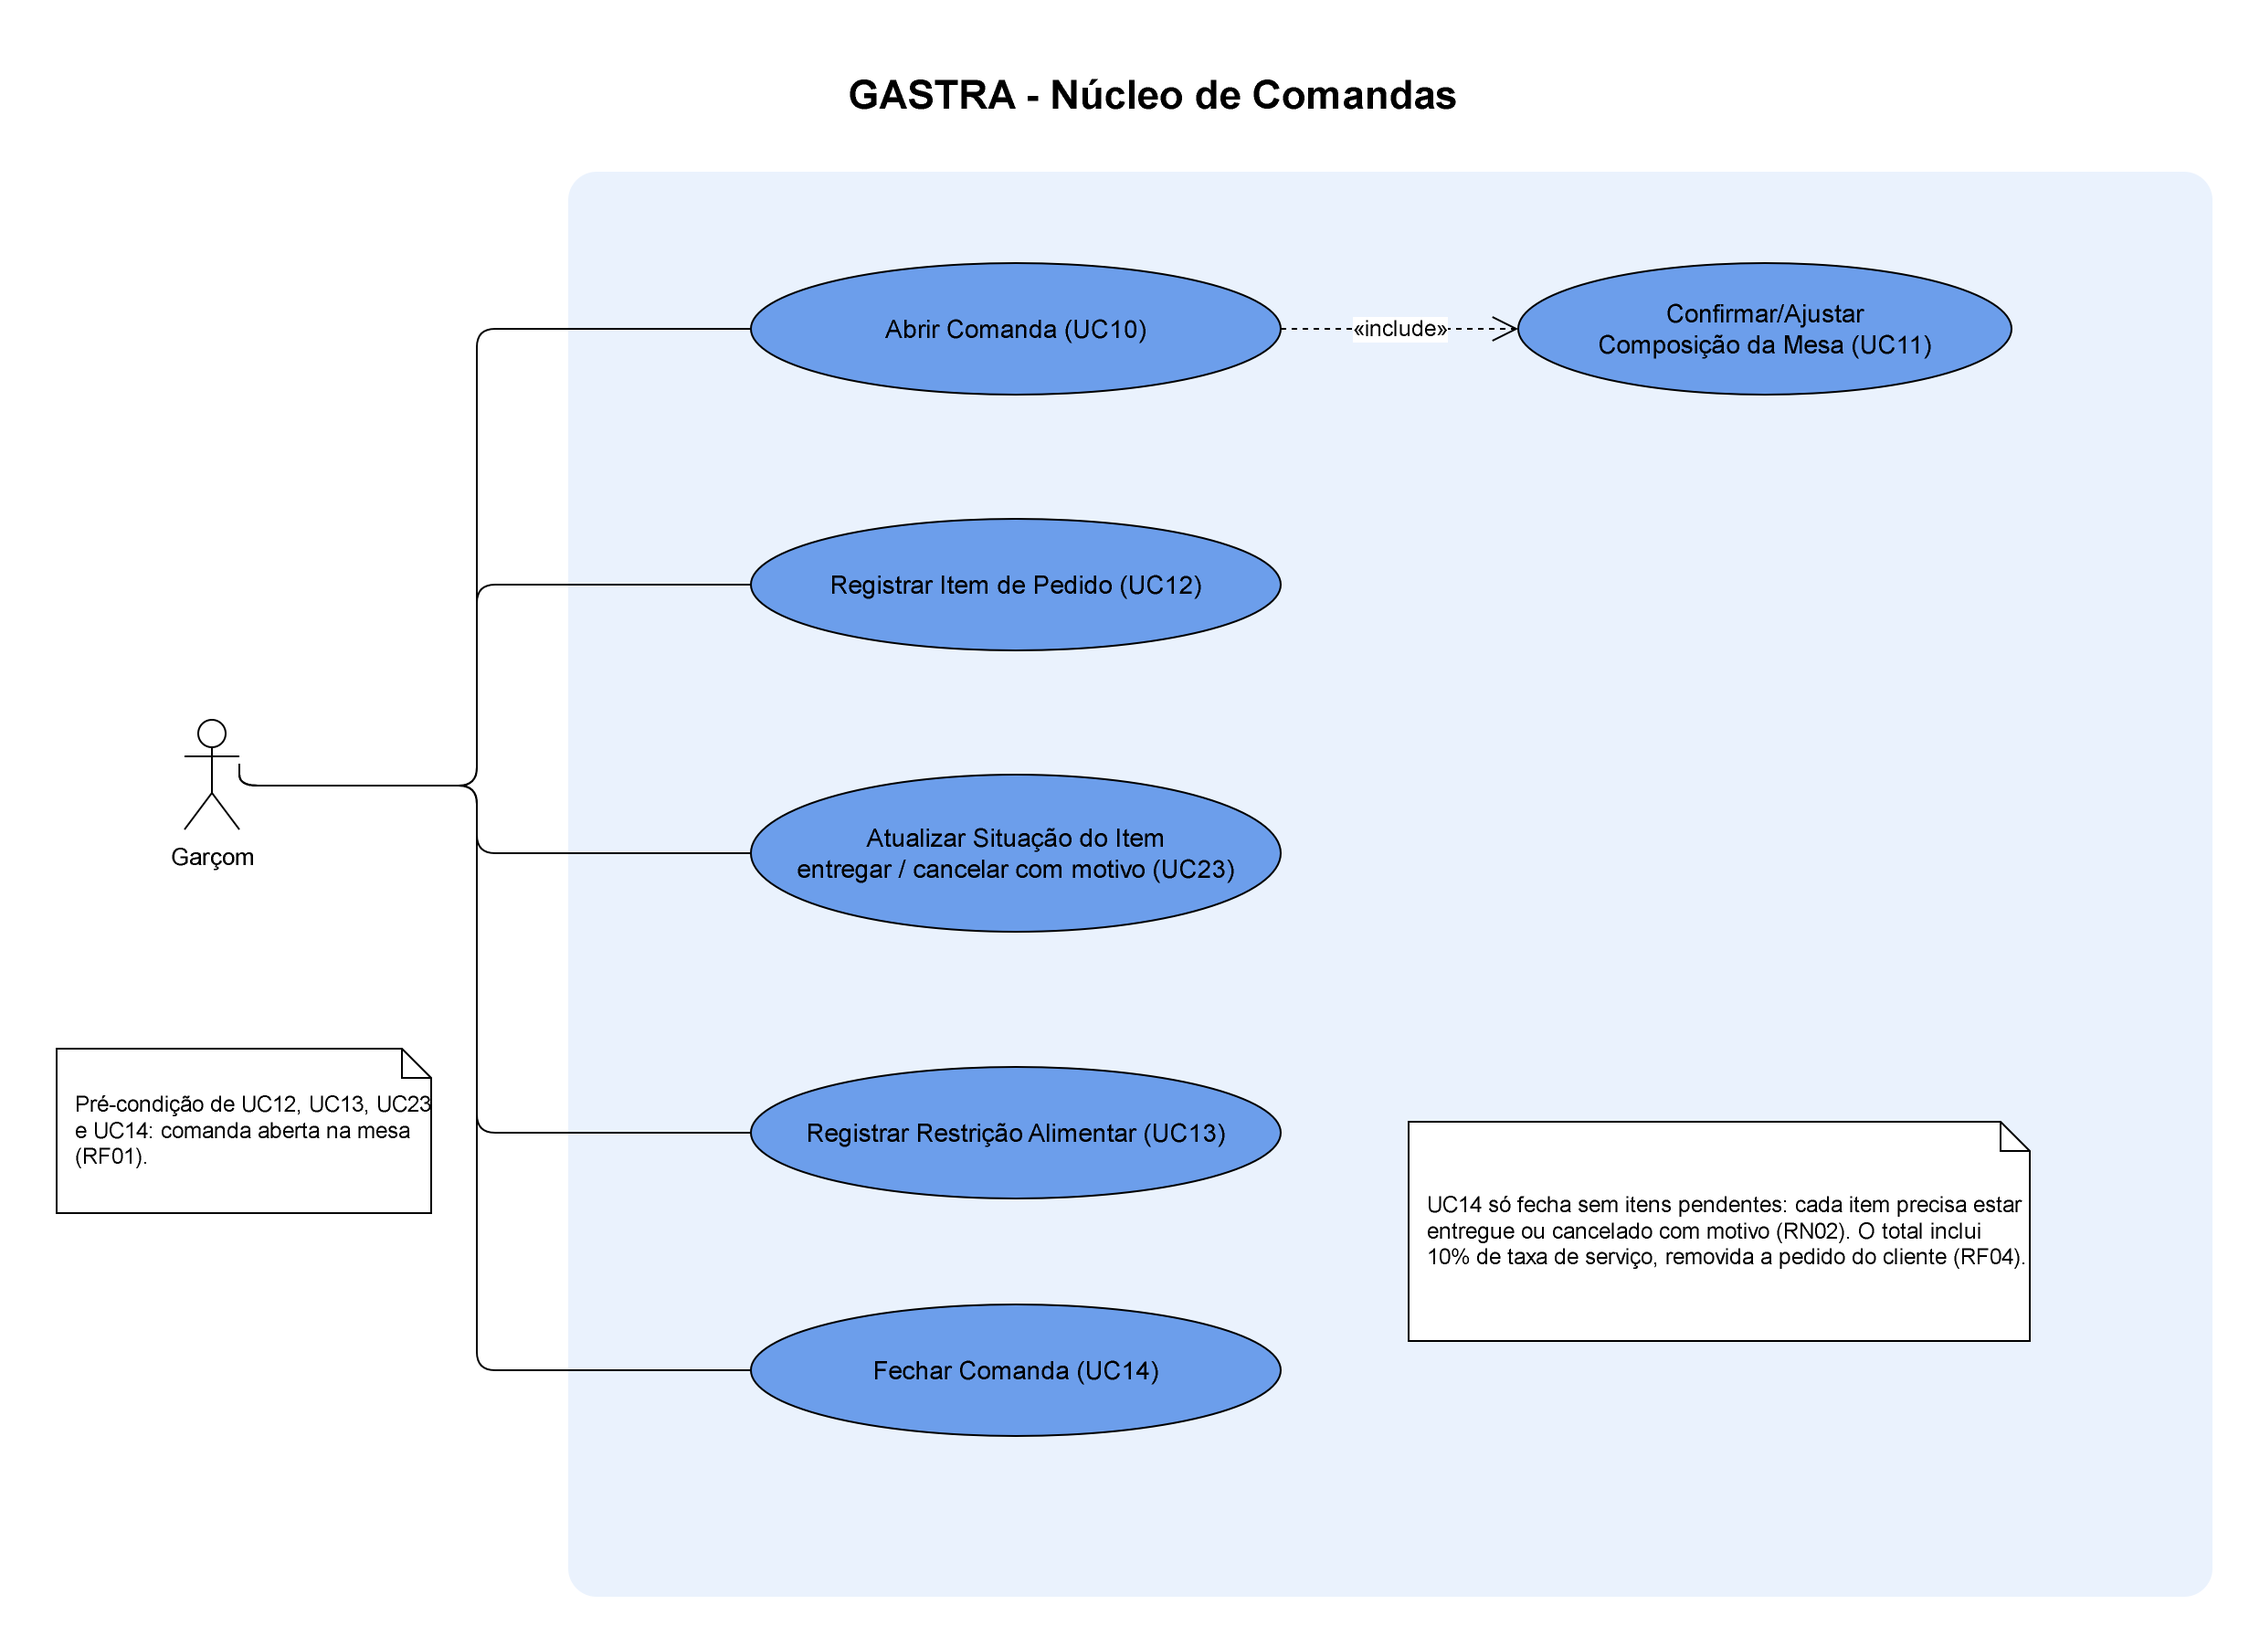
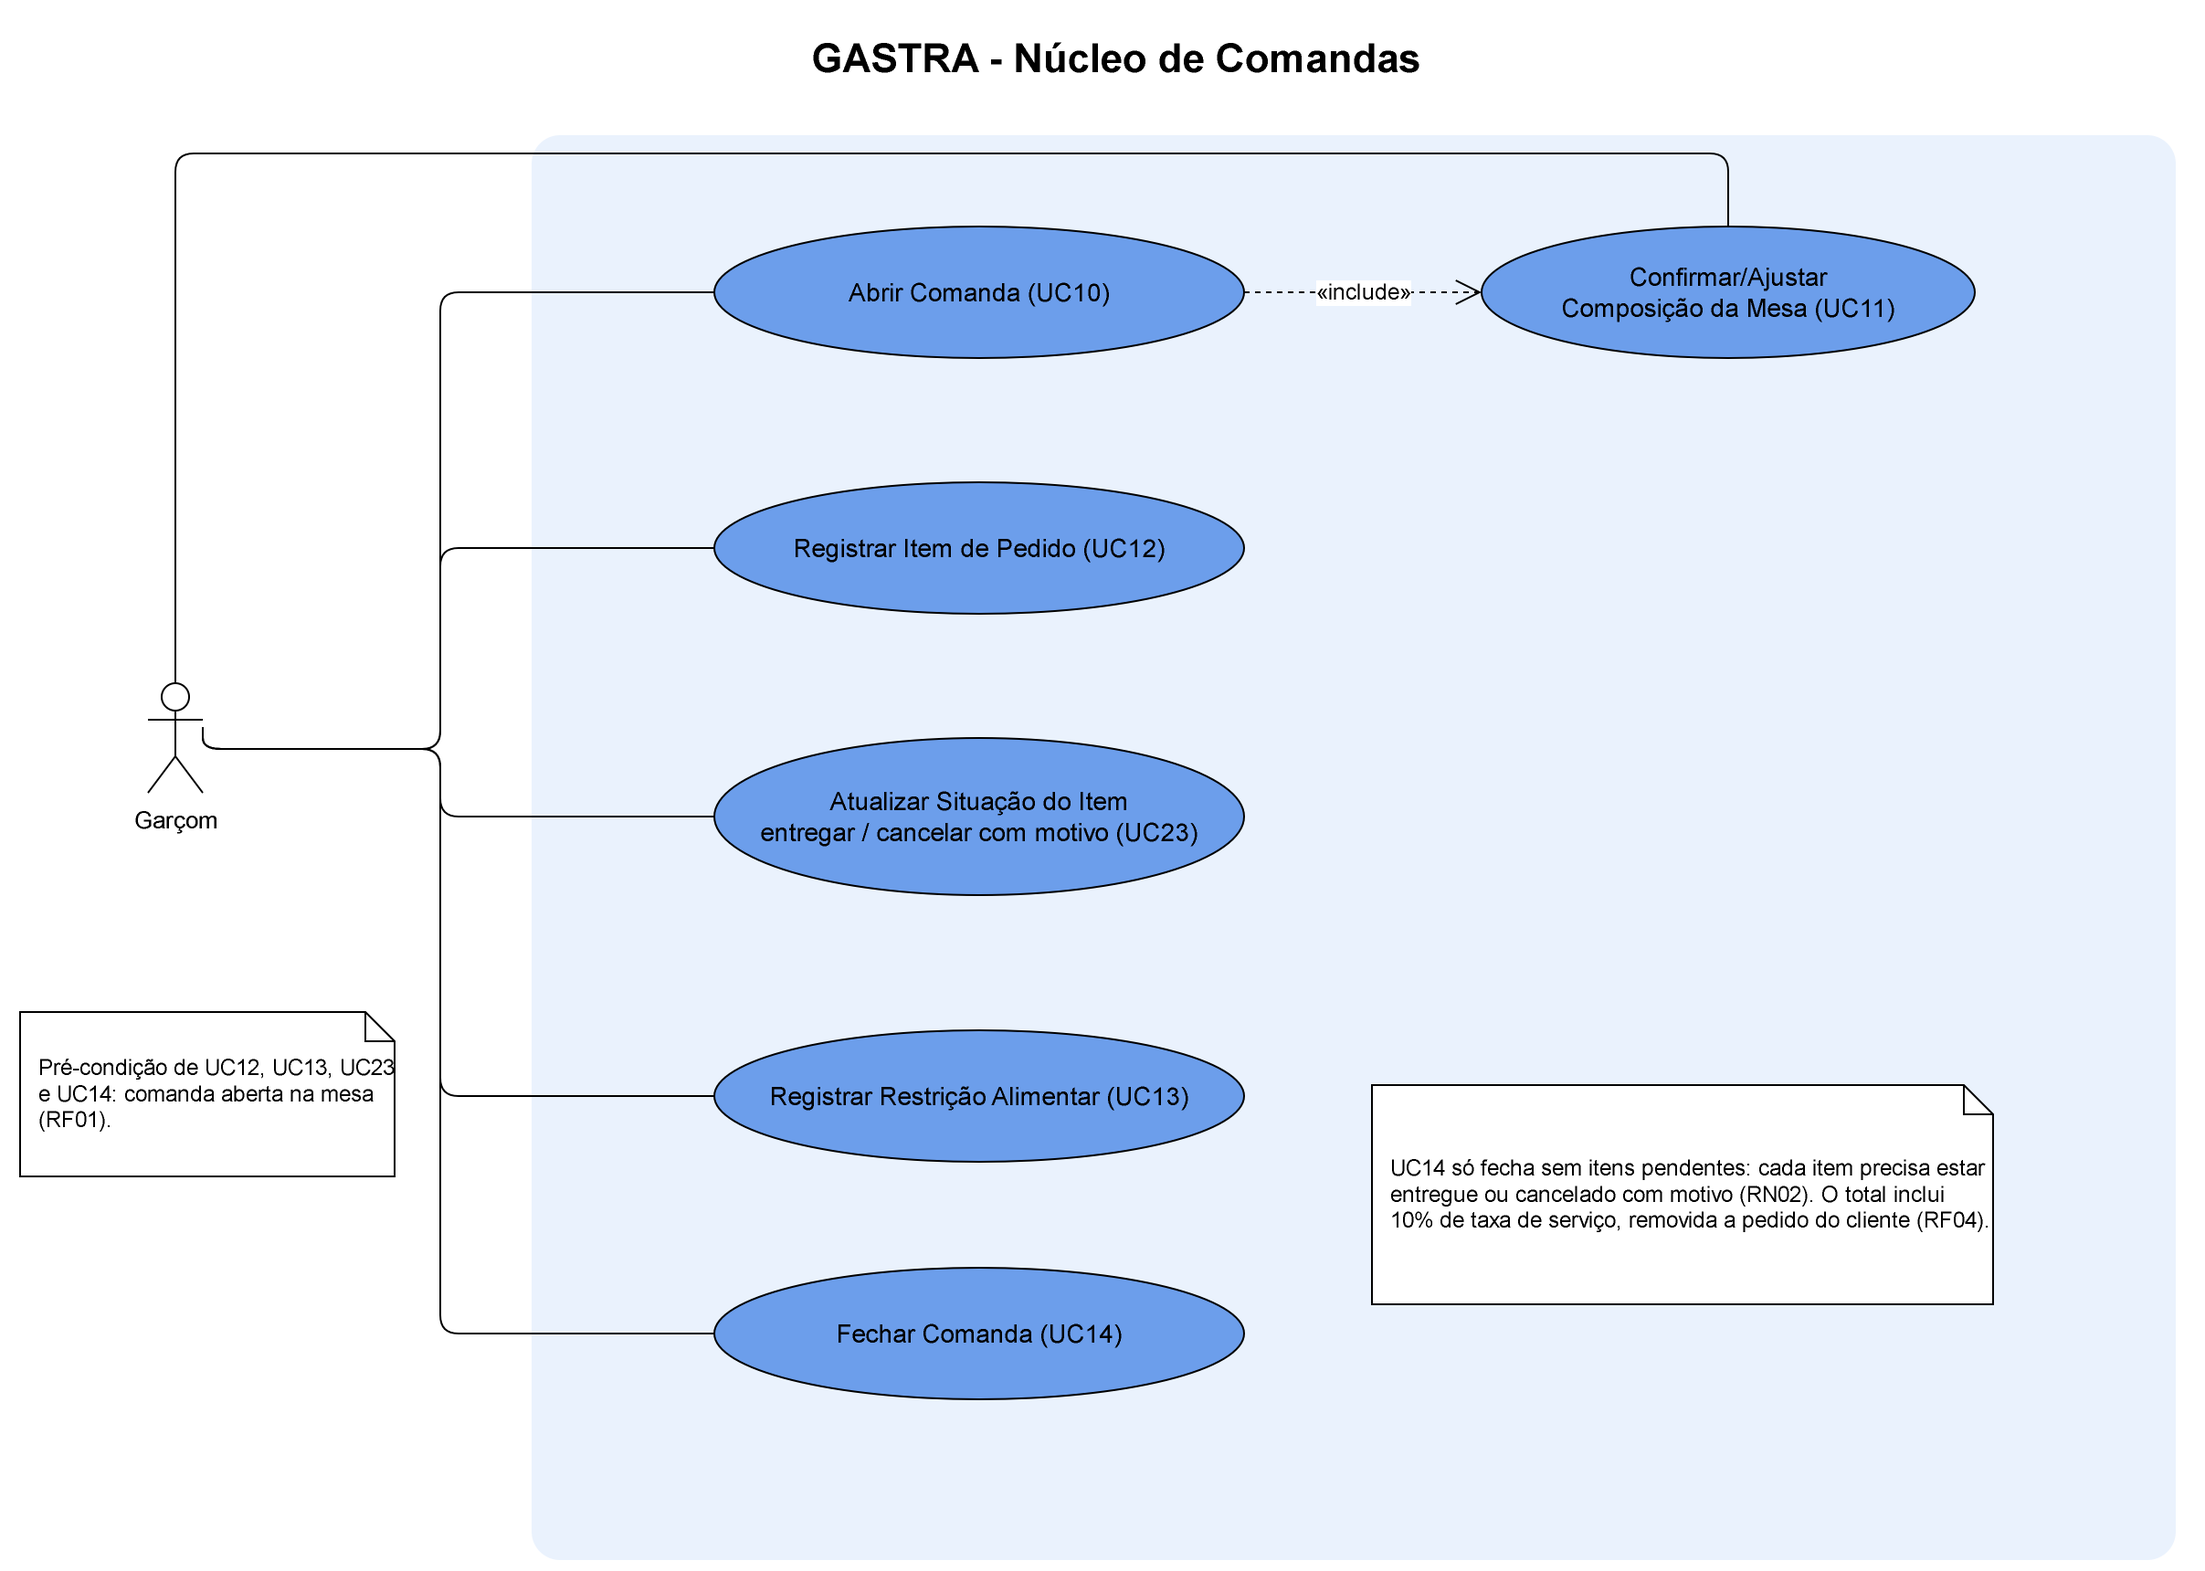
docs(modelagem): Garçom inicia a UC11 e motivo da reprovação do RF12 na matriz
Refs #191 #197

diff --git a/docs/modelagem/GASTRA_Revisao_Modelagem.md b/docs/modelagem/GASTRA_Revisao_Modelagem.md
@@ -159,7 +159,7 @@ Corrigido pela regra 1: a **UC25 — Avaliar o Atendimento** (ator: Cliente) ent
 de uso e no diagrama do Cliente, com a nota das restrições da RN08. A **UC04** também foi ampliada junto
 com o RF18, para continuar descrevendo a mesma coisa que ele.
 
-### 4.8 Um `<<include>>` que merece segunda opinião (#191)
+### 4.8 A UC11 também é iniciada pelo Garçom (#191)
 
 No diagrama do núcleo de comandas, a UC11 (confirmar/ajustar composição da mesa) aparece **só** como
 `<<include>>` da UC10 (abrir comanda), sem associação com o Garçom.
@@ -169,8 +169,10 @@ também permite **ajustar a composição depois**, com a comanda já aberta (`PA
 usado na tela da comanda). Nesse caminho a UC11 é iniciada diretamente pelo Garçom, e o diagrama não mostra
 isso.
 
-**Proposta:** manter o `<<include>>` e **acrescentar** a associação do Garçom com a UC11. Não apliquei
-porque muda a leitura do diagrama e vale a dupla decidir junto — fica como o primeiro item da #191.
+**Decisão:** manter o `<<include>>` e **acrescentar** a associação do Garçom com a UC11. As duas leituras
+são verdadeiras e o diagrama agora mostra as duas: na abertura a UC11 vem incluída na UC10; depois, o Garçom a
+inicia sozinho. A linha nova sai do topo do ator e passa por cima dos outros casos de uso, para não cruzar
+o `<<include>>`.
 
 ### 4.9 O diagrama da fatia vertical tinha quatro divergências (#192)
 
@@ -233,13 +235,13 @@ lugar nenhum. Aparece, na matriz, e a história é melhor do que "foi retirado":
 
 | ID | Descrição | Fonte | Artefatos | Status |
 |---|---|---|---|---|
-| RF12 | O Cliente poder solicitar a exclusão do seu histórico de pedidos a qualquer momento | Questionário de clientes (n = 13) — LGPD | (removido) | **Reprovado** |
+| RF12 | O Cliente poder solicitar a exclusão do seu histórico de pedidos a qualquer momento | Questionário de clientes (n = 13) — LGPD | (removido) — o sistema não identifica o cliente (RN04, RN08): não existe histórico de cliente a excluir | **Reprovado** |
 
 Ou seja: o requisito foi **avaliado e reprovado**, e a matriz mantém a linha com o status para registrar a
 decisão. É o jeito certo de documentar um requisito recusado — e responde a pergunta "cadê o RF12?" melhor
-do que qualquer nota. O motivo da reprovação não está escrito na matriz; vale a dupla registrar, e a hipótese
-natural é que **o sistema não identifica o cliente** (RN04, e agora RN08), então não há histórico de cliente
-para excluir.
+do que qualquer nota. Faltava o motivo, que agora está na coluna de artefatos: **o sistema não identifica o
+cliente** (RN04, e agora RN08), então não existe histórico de cliente para excluir. A preocupação de LGPD
+que originou o pedido é atendida justamente por não guardar dado pessoal do cliente.
 
 **Por que as duas buscas erraram.** O Word parte o texto em pedaços (*runs*) sem critério visível: "UC15"
 estava gravado como "UC1" + "5". Tirar as tags trocando-as por espaço separa os pedaços ("UC1 5") e a
@@ -252,7 +254,6 @@ uma célula da outra. Foi assim que esta seção foi conferida.
 
 | Pendência | Por que não foi feito aqui | Issue |
 |---|---|---|
-| Motivo da reprovação do RF12 registrado na matriz | Decisão da dupla; a matriz só tem o status | #197 |
 | `avaliacao_atendimento` no MER e no DER | Exige o brModelo, que é aplicação gráfica | #196 |
 
 ## 6. Como repetir a conferência do banco
